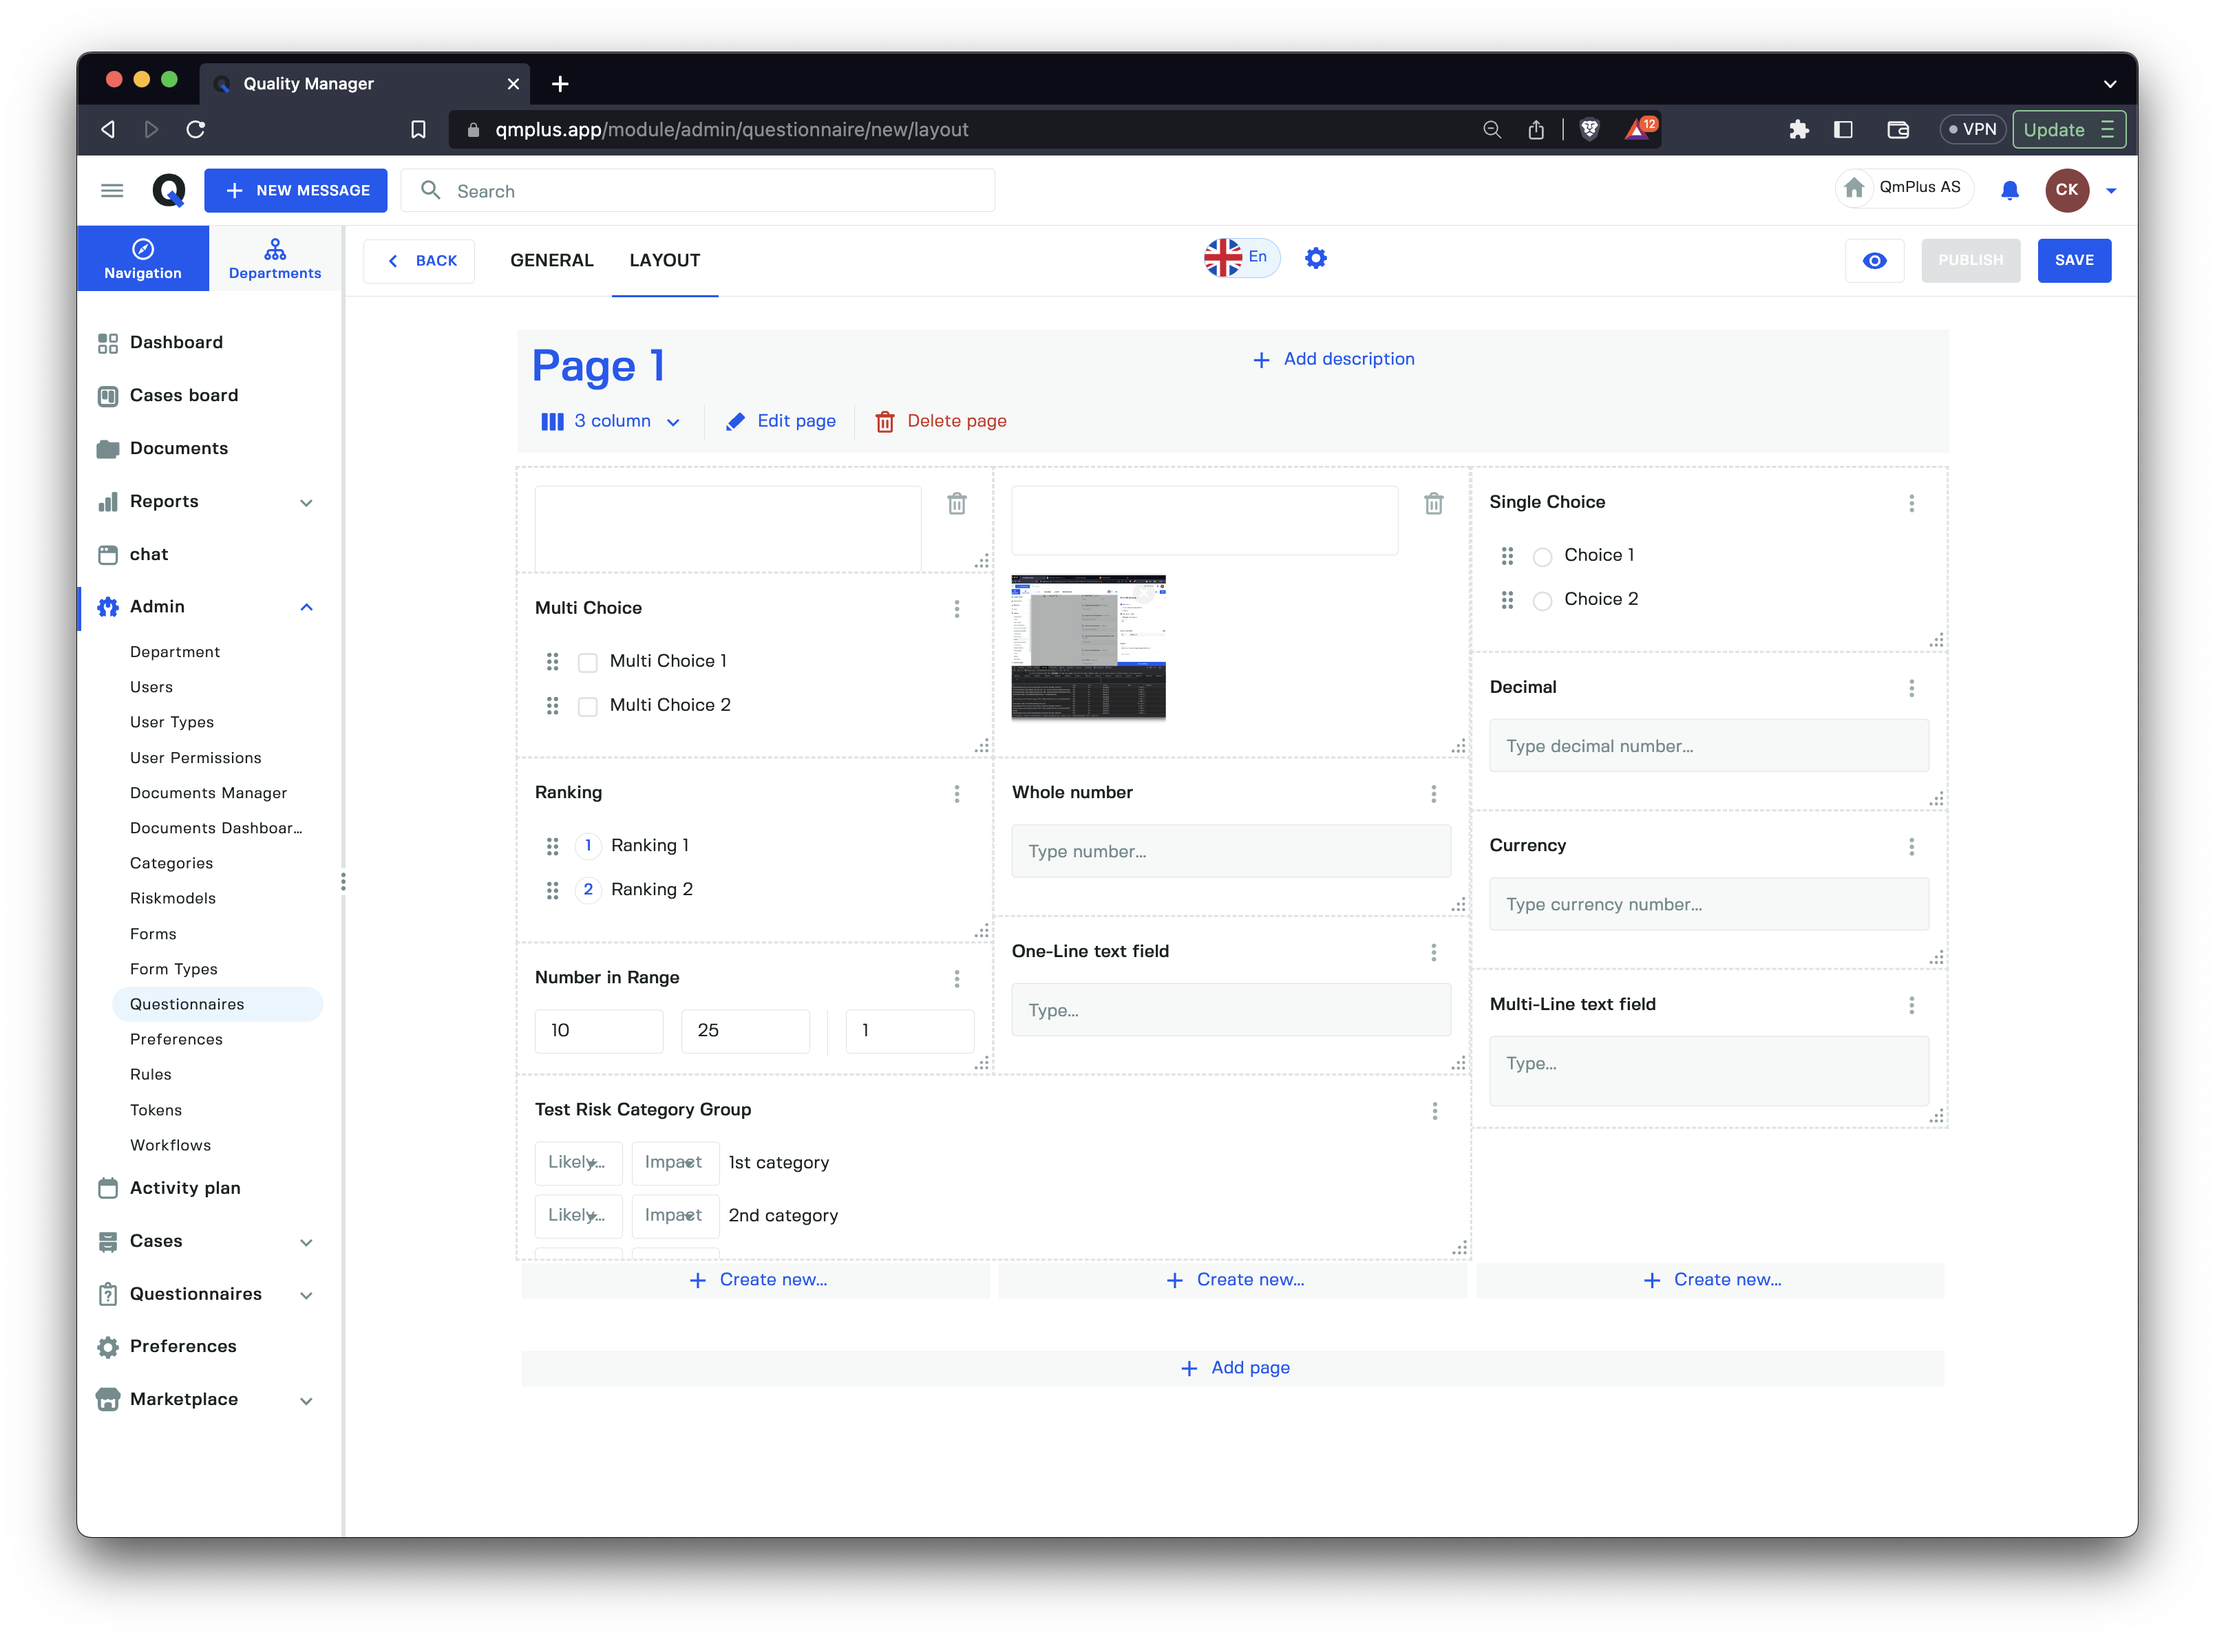
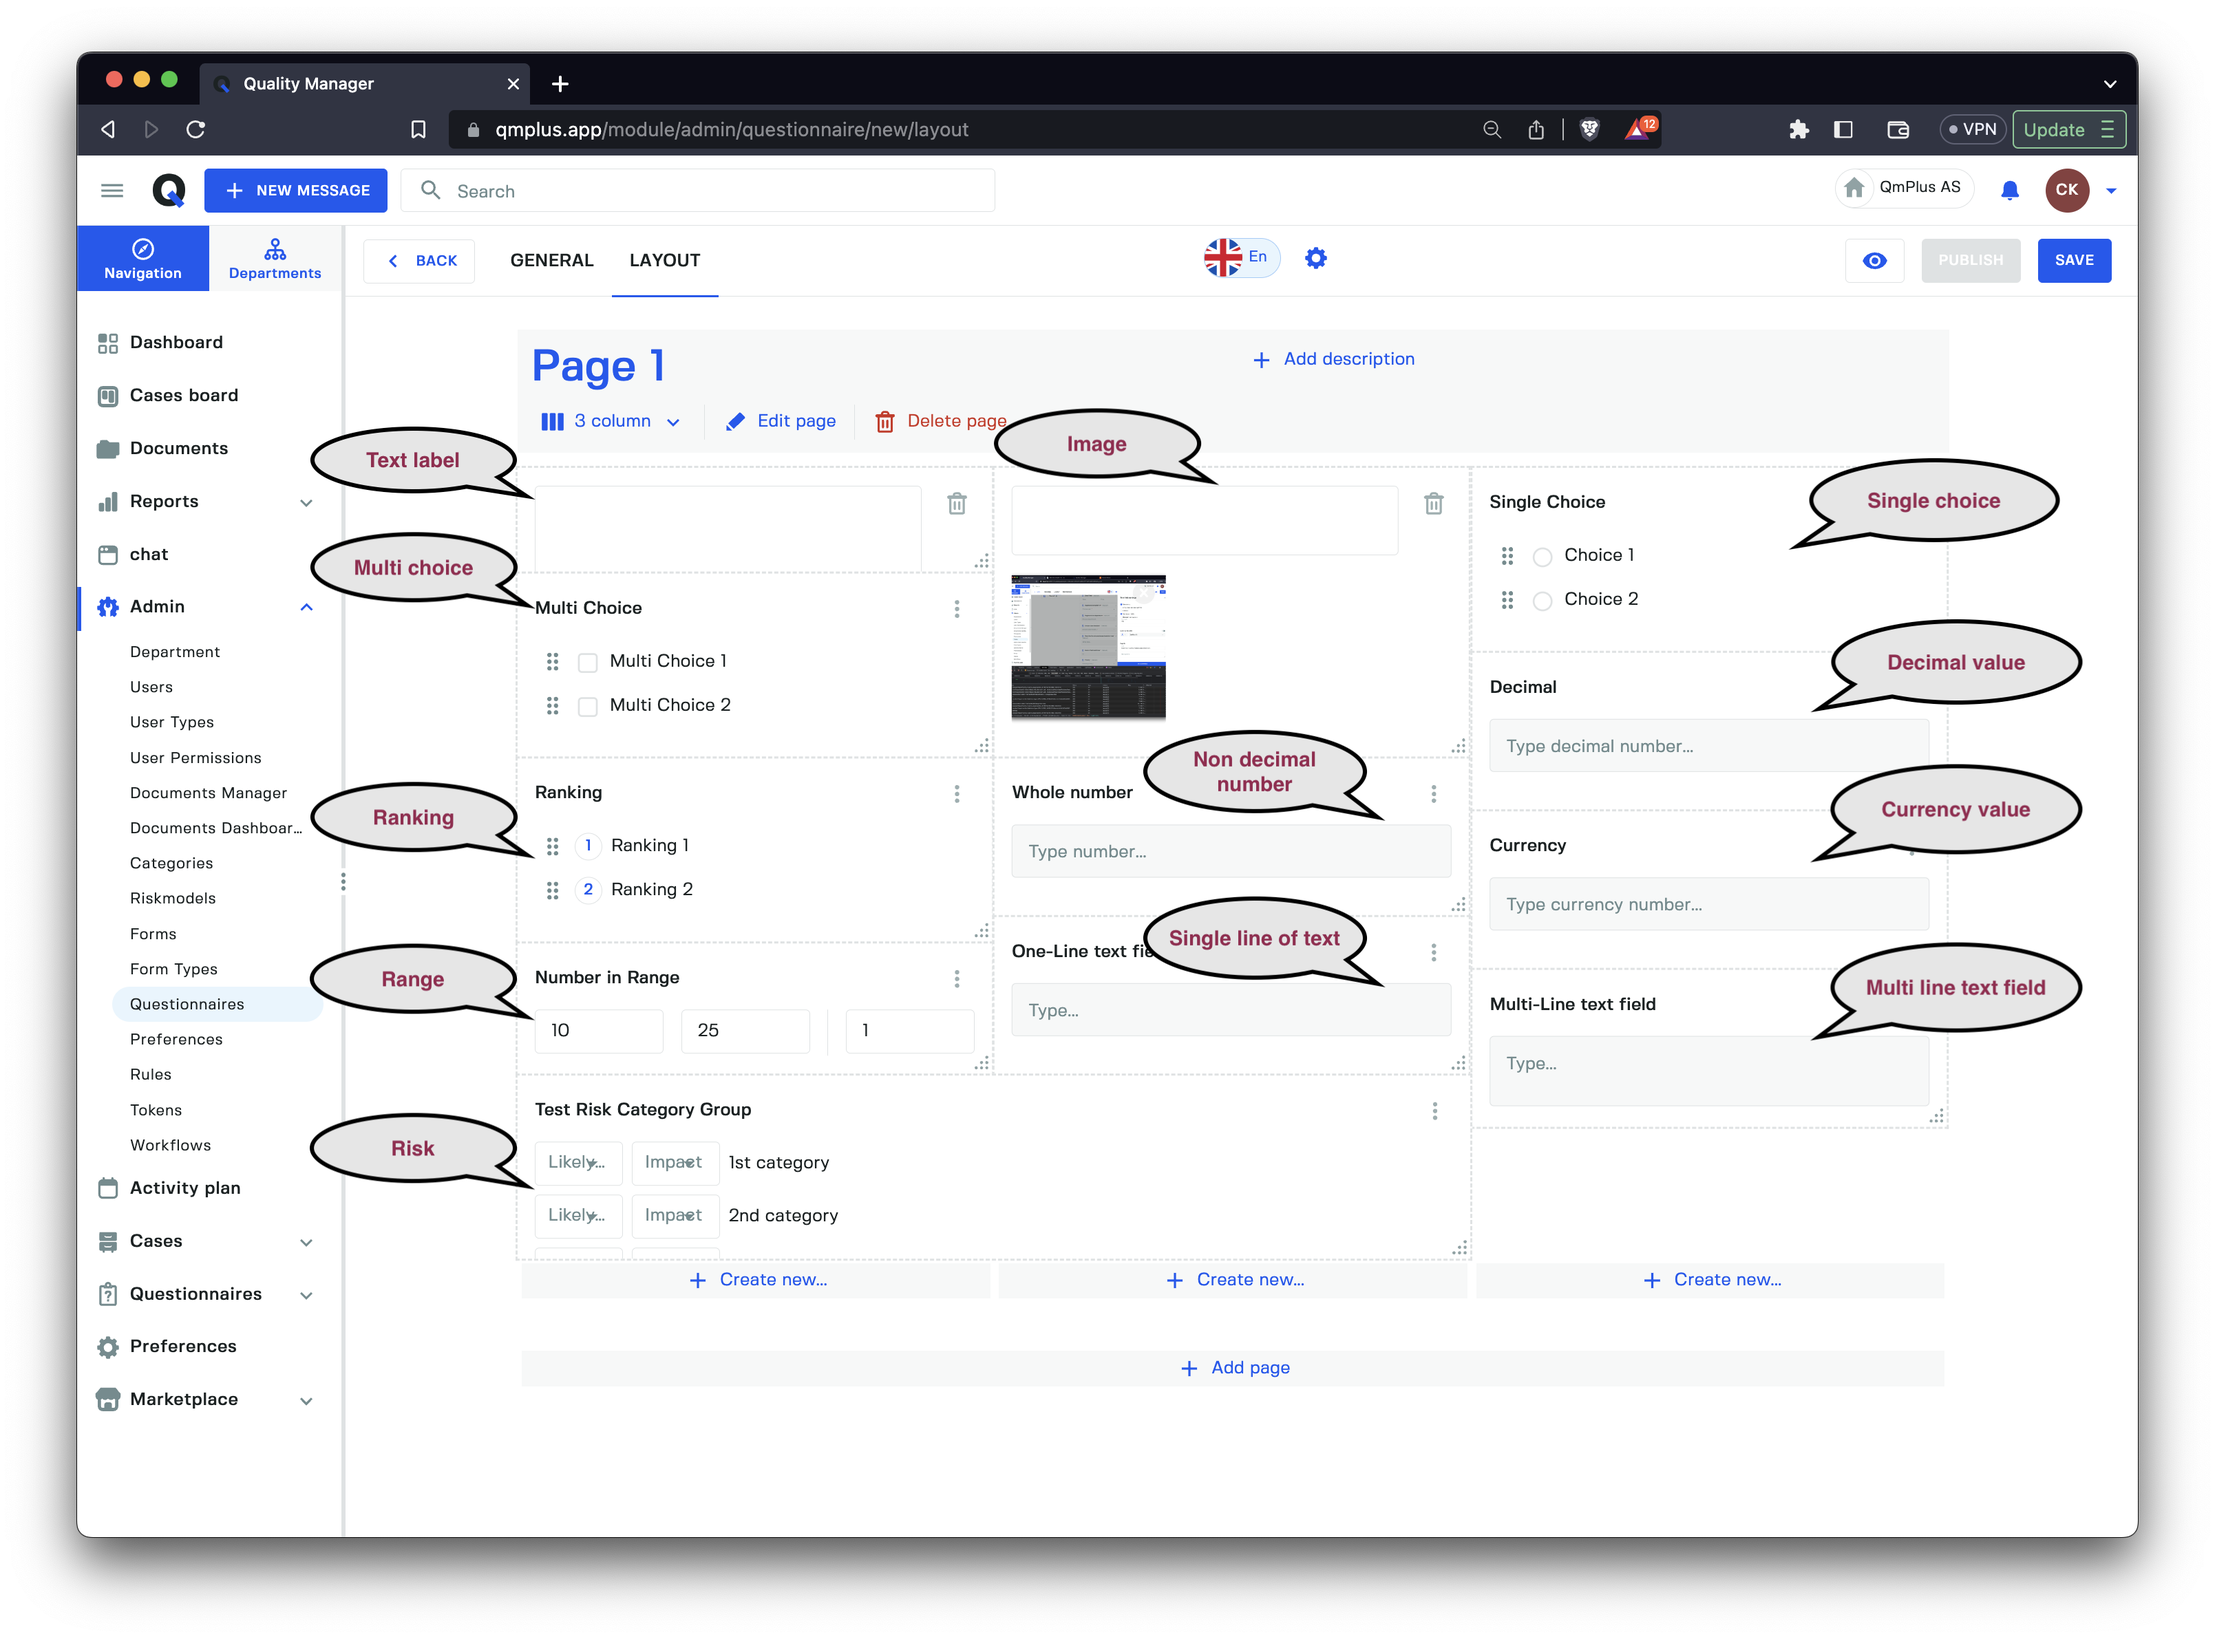
Draft questionnaires

diff --git a/content/en/docs/userguide/questionnaires.md b/content/en/docs/userguide/questionnaires.md
@@ -46,7 +46,11 @@ As you can see from the image we can preview the current questionnaire.
 
 > Until you click the `Publish` button all changes to the questionnaire are private. Once the `Publish` button is clicked it will be visible to add to activities.
 
-### Questionnaire Layout
+{{< figure src="/images/questionnaires/questionnaires_7.png" caption="" width="1024">}}
+
+References can be added to documents stored in `Q` to add context to a Questionnaire or relevant documents.
+
+## Questionnaire Layout
 
 {{< figure src="/images/questionnaires/questionnaires_8.png" caption="" width="1024">}}
 
@@ -60,23 +64,100 @@ The available components are as follows.
 
 | Component | Description |
 | --- | --- |
-| `Text` | |
-| `Image` ||
-| `Single choice` ||
-| `Multi choice` ||
-| `Ranking` ||
-| `Integer` ||
-| `Decimal` ||
-| `Currency` ||
-| `Number in range` ||
-| `One-line text field` ||
-| `Multiline text field` ||
-| `Risk` ||
+| `Text` | A text description field to enter text information on the questionnaire. |
+| `Image` | Allows adding an image to the questionnaire, can be used to show information. |
+| `Single choice` | Create a question with answers, allowing the end user to choose one. |
+| `Multi choice` | Create a question with answers, allowing the end user to choose multiple ones. |
+| `Ranking` | Create a question with answers, allowing the end user to drag and drop them in the order of ranking. | 
+| `Integer` | A field that lets you specify a whole number. |
+| `Decimal` | A field that lets you specify a decimal number. |
+| `Currency` | A field that lets you specify a currency number. |
+| `Number in range` | A field that lets you specify a start and end value and the step size for the slider. |
+| `One-line text field` | A single line text field. |
+| `Multiline text field` | A multiple line text field. |
+| `Risk` | A Risk category group. |
 
+> Components can be resized horizontally and moved around. Depending on the number of columns you define you can organize the components side by side.
+
+### Page Settings
 
 {{< figure src="/images/questionnaires/questionnaires_9.png" caption="" width="1024">}}
 
+The page settings allow you change the page title as well as description. You can also add references to documents from Q as well as tags.
+
+### Text
+{{< figure src="/images/questionnaires/questionnaires_12.png" caption="" width="1024">}}
+
+A text field that lets you specify some read-only text for the questionnaire. Can be used for instructions related to a field or additional information.
+
+### Image
+{{< figure src="/images/questionnaires/questionnaires_13.png" caption="" width="1024">}}
+
+Add a read-only image to the questionnaire to show instructions or additional information related to a question.
+
+### Single choice
+{{< figure src="/images/questionnaires/questionnaires_14.png" caption="" width="1024">}}
+
+Create a question/answer combination that lets the person entering a questionnaire select one single option.
+
+### Multi choice 
+{{< figure src="/images/questionnaires/questionnaires_15.png" caption="" width="1024">}}
+
+Create a question/answer combination that lets the person entering a questionnaire select multipl options.
+
+### Ranking
+{{< figure src="/images/questionnaires/questionnaires_16.png" caption="" width="1024">}}
+
+Create a question/answer combination that lets the person entering a questionnaire rank the options from top to bottom.
+
+### Integer
+{{< figure src="/images/questionnaires/questionnaires_17.png" caption="" width="1024">}}
+
+Create a whole number entry field for you questionnaire (Age of a user, street number).
+
+### Decimal
+{{< figure src="/images/questionnaires/questionnaires_18.png" caption="" width="1024">}}
+
+Create a decimal number entry field for you questionnaire (for example percentage 5,5).
+
+### Currency
+{{< figure src="/images/questionnaires/questionnaires_19.png" caption="" width="1024">}}
+
+Create a currency number entry field for you questionnaire (for example cost 2000,20).
+
+### Number in range
+{{< figure src="/images/questionnaires/questionnaires_20.png" caption="" width="1024">}}
+
+Create a numeric range with a minimum and maximum and a step size. For example a age slider with a minimumm og 1 and maximum of 120 years where the step size is 5 will let you drag the slider in intervals of 5 years.
+
+### One-line text field
+{{< figure src="/images/questionnaires/questionnaires_21.png" caption="" width="1024">}}
+
+A single text input field. For example to capture a users last name.
+
+### Multiline text field
+{{< figure src="/images/questionnaires/questionnaires_22.png" caption="" width="1024">}}
+
+A multiple lines text input field to capture more information in text.
+
+### Risk
+{{< figure src="/images/questionnaires/questionnaires_23.png" caption="" width="1024">}}
+
+Select a risk model category group to add to the questionnaire.
+
+{{< figure src="/images/questionnaires/questionnaires_24.png" caption="" width="1024">}}
+
+Lets you perform a risk analaysis evaluation in the questionnaire.
+
+## Questionnaire Versions
 
 {{< figure src="/images/questionnaires/questionnaires_5.png" caption="" width="1024">}}
+
+Everytime you save the questionnaire we create a new version. Once you are ready you can click the `Publish` button to make the current version available to add to Activities.
+
+## Preview Questionnaire
+
 {{< figure src="/images/questionnaires/questionnaires_6.png" caption="" width="1024">}}
-{{< figure src="/images/questionnaires/questionnaires_7.png" caption="" width="1024">}}
+
+Vi can preview the Questionniare seting how it's rendered by clicking the `Preview (eye)` button. You can interact with the elements but not save it.
+
